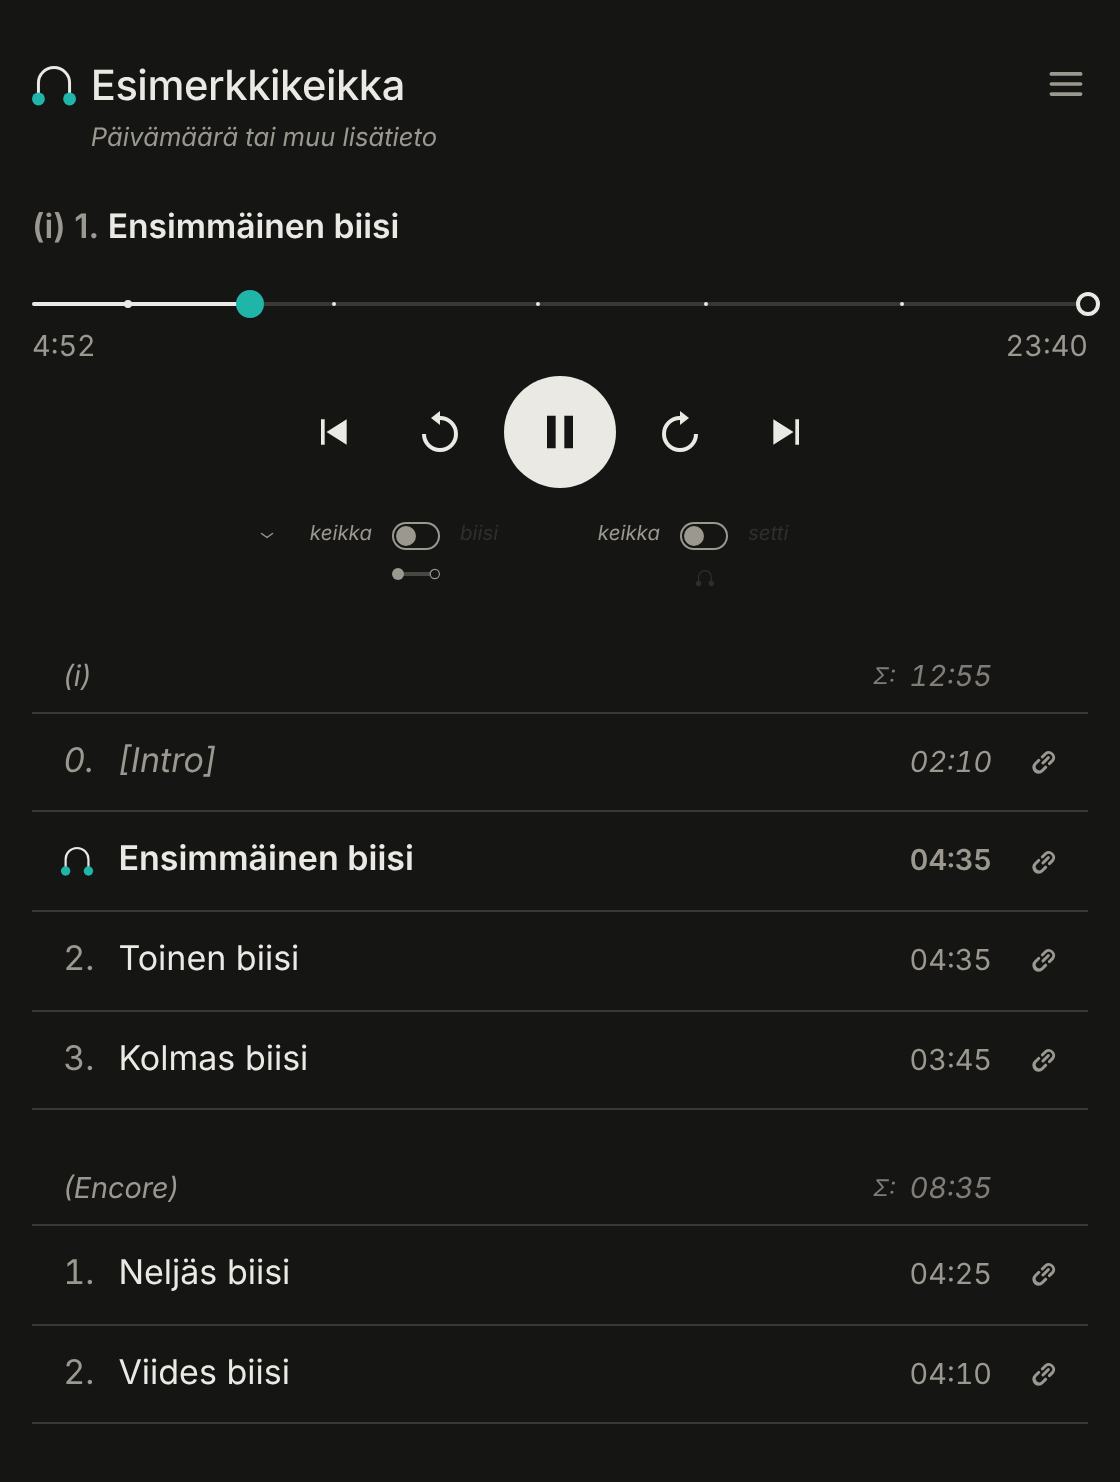
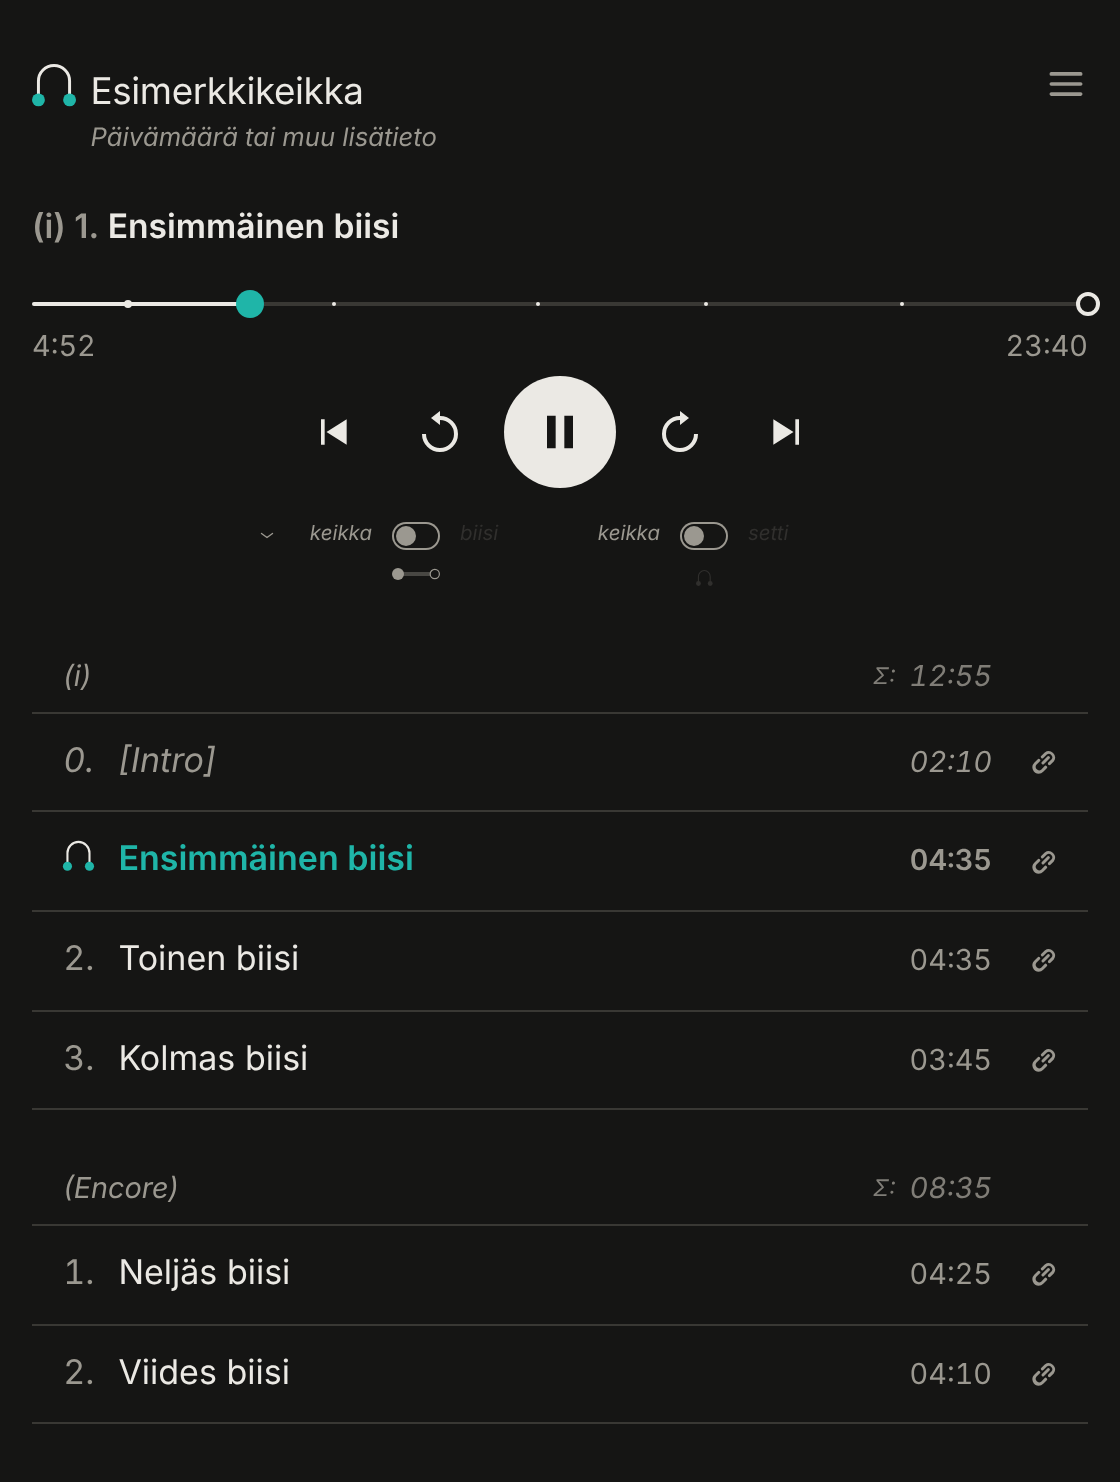
Soitin: kappalelistan ja setin kytkimen kuulokkeisiin logon sanka, oppaan kuvat uudelleen
.kuul ja .minikuul: sangan jalat 10,925 → 9,725 kuten logossa ja .brandissa.
Tekstiin mitoitettuina yläreuna ja tyynyjen alareuna pysyvät pikseleissä
paikallaan, joten kuulokkeet pienenevät suhteessa 16/17,2. Käyttöoppaan
soitinkuvat otettu uudelleen nykyisestä soittimesta.

Claude-Session: https://claude.ai/code/session_01JZz2QGALSAjFKNzLhkFVJH

Changed region(s): [[0.0312, 0.031, 0.375, 0.0931], [0.0625, 0.5587, 0.375, 0.5897]]

diff --git a/soitin/index.html b/soitin/index.html
@@ -393,7 +393,7 @@
     grid-row: 2;
     grid-column: 2;
     justify-self: center;
-    width: 8.945px;
+    width: 8.321px;
     height: 8px;
     margin-top: 3px;
     overflow: visible;
@@ -611,7 +611,7 @@
       <span class="side" data-on="0">keikka</span>
       <input type="checkbox" role="switch" id="setonly" aria-label="Pysähdy setin lopussa">
       <span class="side" data-on="1">setti</span>
-      <svg class="minikuul" viewBox="0.99 4 17.89 16" aria-hidden="true"><path d="M3.61 17.38V10.925A6.325 6.325 0 0 1 16.26 10.925V17.38" fill="none" stroke="currentColor" stroke-width="1.2"/><circle cx="3.61" cy="17.38" r="2.62"/><circle cx="16.26" cy="17.38" r="2.62"/></svg>
+      <svg class="minikuul" viewBox="0.99 2.8 17.89 17.2" aria-hidden="true"><path d="M3.61 17.38V9.725A6.325 6.325 0 0 1 16.26 9.725V17.38" fill="none" stroke="currentColor" stroke-width="1.2"/><circle cx="3.61" cy="17.38" r="2.62"/><circle cx="16.26" cy="17.38" r="2.62"/></svg>
     </div>
   </div>
 
@@ -913,14 +913,14 @@
   // KEICK•WALK-logon kuulokkeet: soivan kappaleen merkki listassa.
   function kuulokkeet(cls) {
     var w = document.createElement("span");
-    w.innerHTML = '<svg class="' + cls + '" viewBox="0.49 3.5 18.89 17" aria-hidden="true">'
-      + '<path d="M3.61 17.38V10.925A6.325 6.325 0 0 1 16.26 10.925V17.38" fill="none" stroke="currentColor" stroke-width="1.2"/>'
+    w.innerHTML = '<svg class="' + cls + '" viewBox="0.49 2.3 18.89 18.2" aria-hidden="true">'
+      + '<path d="M3.61 17.38V9.725A6.325 6.325 0 0 1 16.26 9.725V17.38" fill="none" stroke="currentColor" stroke-width="1.2"/>'
       + '<circle class="t" cx="3.61" cy="17.38" r="2.62"/><circle class="t" cx="16.26" cy="17.38" r="2.62"/></svg>';
     return w.firstChild;
   }
   var kuul = kuulokkeet("kuul");
   // Kuulokkeet soivan rivin piilotetun numeron paikalle: oikean tyynyn reuna (x 18,88) numeron
-  // oikeassa reunassa, tyynyjen alareuna (y 20) perusviivalla ja sangan yläreuna (y 4) tekstin
+  // oikeassa reunassa, tyynyjen alareuna (y 20) perusviivalla ja sangan yläreuna (y 2,8) tekstin
   // sisältöalueen yläreunassa.
   function markCurrent(tr) {
     var n = tr.querySelector(".n");
@@ -933,11 +933,11 @@
     var base = z.offsetTop, top = base - (z.getBoundingClientRect().top - a.getBoundingClientRect().top);
     n.removeChild(z);
     n.removeChild(a);
-    var u = (base - top) / 16;
+    var u = (base - top) / 17.2;
     kuul.style.width = 18.89 * u + "px";
-    kuul.style.height = 17 * u + "px";
+    kuul.style.height = 18.2 * u + "px";
     kuul.style.left = n.offsetLeft + n.offsetWidth - (18.88 - 0.49) * u + "px";
-    kuul.style.top = top - (4 - 3.5) * u + "px";
+    kuul.style.top = top - (2.8 - 2.3) * u + "px";
   }
 
 

diff --git a/CLAUDE.md b/CLAUDE.md
@@ -352,8 +352,10 @@ rako k:hon ennallaan), vasen siirtyi kohtaan 3,61 janan alun ja pisteen kanssa, 
 viivan alareuna on kirjainten yläreunassa (y 4) ja yläreuna y 2,8; jalat 17,38 → 9,725, kaari ennallaan.
 i:n pisteen alareunaan (yläreuna y 2,0) asti nouseva oli hiukan liian korkea. Soitinsivun kuulokkeet (`.brand`)
 ovat viewBoxissa `0.99 2.8 17.89 17.2` ja 1,2 yksikköä ylempänä, joten tyynyt eivät liikkuneet. Kappalelistan
-ja setin kytkimen pienet kuulokkeet (`.kuul`, `.minikuul`) ovat vanhalla sangalla viewBoxissa `0.99 4 17.89 16`,
-koska ne on mitoitettu tekstiin.
+ja setin kytkimen pienet kuulokkeet (`.kuul`, `.minikuul`) saivat saman sangan (käyttäjän päätös 20.10.2026: kaikki
+kuulokkeet logon mukaisiksi). Ne on mitoitettu tekstiin, joten niiden yläreuna (y 2,8) ja tyynyjen alareuna pysyivät
+pikseleissä paikallaan ja kuulokkeet pienenivät suhteessa 16/17,2 (`.minikuul` 8 px korkea, 8,321 px leveä;
+`.kuul` `markCurrent()`:ssa yksikkönä (perusviiva − sisältöalueen yläreuna) / 17,2). Mitattu Chromiumissa.
 Listan logo on samassa mittakaavassa ja kohdassa kuin soitinsivun kuulokkeet (alla), joten sen kuulokkeet
 ovat tasan soittimen kuulokkeiden päällä (käyttäjän päätös 20.10.2026; mitattu Chromiumissa, ero 0,02 px):
 1,0295 rem / 13,38 per viewBox-yksikkö (logo 188,9 × 36,6 px), sangan yläreuna 5 px h1:n yläreunan alapuolella;
